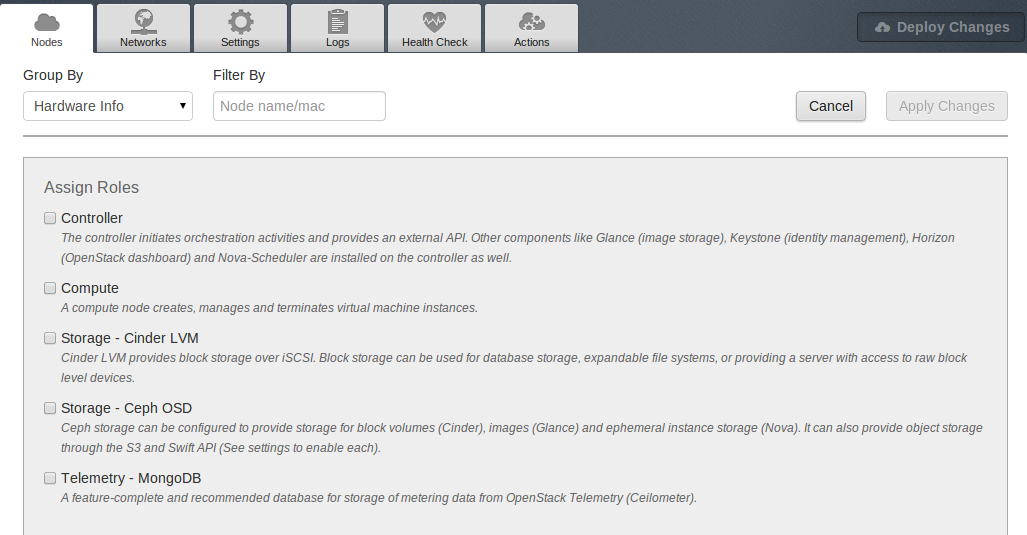
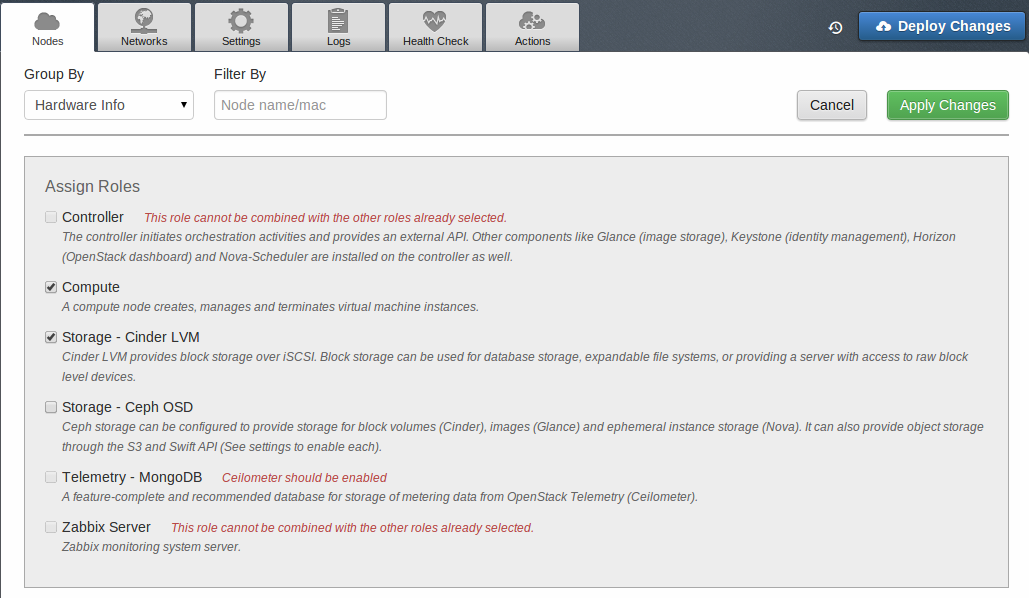
Add nodes text, disk partioning instructions
user-guide/4000-configure-environment.rst -- added "Add nodes" stage to
summary table

user-guide/create-environment/0900-add-nodes.rst -- new file to include the
"Add nodes" stage
user-guide/create-environment/1300-deploy-changes -- broken out into
separate file and moved after disk partitioning

user-guide/create-environment/1000-assign-roles.rst -- added instructions

New image for add-nodes screen
Replaced image for assign-roles screen, disk-partitioning

The new screen shot for assign-roles includes Zabbix; discussion will be
added in a separate Zabbix commit

Closes-Bug: 1352499

Changed region(s): [[0.0312, 0.2991, 0.9659, 0.957], [0.0, 0.0, 1.0, 0.2692], [0.0, 0.957, 0.0312, 0.9869]]

diff --git a/pages/user-guide/config-environment/1000-assign-roles.rst b/pages/user-guide/config-environment/1000-assign-roles.rst
@@ -4,19 +4,45 @@
 Assign a role or roles to each node server
 ------------------------------------------
 
+The first screen that is displayed has a list of roles at the top
+and a list of unallocated nodes at the bottom.
+
+* A **node** is a physical or virtual server
+  that is provisioned to run a specific set of OpenStack services.
+
+* A **role** is a functional set of services
+  that Fuel installs as a whole on a node,
+  usually in its own disk partition.
+
+
 
 .. image:: /_images/user_screen_shots/assign-roles1.png
-   :width: 50%
+   :width: 80%
 
 
 .. image:: /_images/user_screen_shots/assign-roles2.png
-   :width: 50%
+   :width: 80%
 
 
-Select the role or roles you want to assign,
-then click on the appropriate node(s)
-in the "Unallocated Nodes" list,
-then click on the "Apply Changes" button.
+To assign roles to the nodes:
+
+- Select the role or roles you want to assign
+- Click on the appropriate node(s) in the "Unallocated Nodes" list
+- Click on the "Apply Changes" button.
+- Proceed to do this until all roles have been assigned to all nodes.
+
+In this example,
+both the "Compute" and "Storage - Cinder LVM" roles
+are being assigned to this node.
+
+As you make your selections,
+Fuel displays information about combinations
+that are not allowed
+and other configurations that are required.
+For example, in this sample screen,
+it tells you that the Controller role
+cannot be combined with the Compute and Cinder LVM roles
+that you have selected.
 
 If you want to modify the roles assigned to a node:
 
@@ -34,6 +60,16 @@ If you want to modify the roles assigned to a node:
   and leave the "Compute" role selected);
   click the "Apply Changes" button.
 
+When you click the "Apply Changes" button,
+Fuel displays the configuration you have chosen:
+
+
+.. image:: /_images/user_screen_shots/assign-role-confirm.png
+   :width: 80%
+
+To rename the nodes, click on the "Unnamed nodes" string
+for each node and then type in the name you want to use.
+
 For more information, see:
 
 - :ref:`nodes-roles-arch` describes the Controller,
@@ -42,4 +78,6 @@ For more information, see:
   ramifications of the different Storage roles.
 - :ref:`nodes-roles-plan` includes guidelines about setting up nodes.
 - :ref:`mongodb-term` for information about MongoDB.
+
+
 

diff --git a/pages/user-guide/config-environment/1200-customize-partitions.rst b/pages/user-guide/config-environment/1200-customize-partitions.rst
@@ -4,15 +4,40 @@
 Disk partitioning
 -----------------
 
-.. image:: /_images/user_screen_shots/partition-disks.png
-   :width: 80%
-
-To access this screen,
-select a node or nodes and click the "Configure Disks" button.
+Fuel allocates some reasonable amount of disk space
+for each role that is assigned to a node.
+To modify this allocation,
+select the node(s) you want to modify
+and click on the "Configure Disks" button.
 You can also access this screen
 by clicking the gear wheel to the right of the node listing;
 in the detailed information window that is displayed,
 click the "Configure Disks" button.
+
+This displays a screen with a bar for each disk;
+color-coded sections represent the disk partitions
+that have been assigned.
+
+To modify the disk allocation,
+click on the bar for a disk.
+This example is for a node that runs
+both a Compute node and a Storage - Cinder LVM role;
+clicking on the center bar gives a display
+similar to the following:
+
+.. image:: /_images/user_screen_shots/partition-disks.png
+   :width: 80%
+
+To change the disk allocation for a specific role,
+just type in the amount of space (in MB) you want to allocate.
+You can use round numbers;
+Fuel adjusts this number to satisfy block size boundary requirements and such.
+The display adjusts to show the new allocation;
+click on the "Apply" button in the lower right of the screen
+to save the modifications
+and return to the Node List.
+Click on the "Back to Node List" button in the lower left of the screen
+if you do not want to change the disk allocation.
 
 Note the following:
 
@@ -22,4 +47,6 @@ Note the following:
   and identical roles,
   you can partition all their disks at the same time
   by selecting them all and then clicking the "Configure Disks" button.
+- If the node's roles are modified,
+  the disk configuration is reset to default values.
 

diff --git a/pages/user-guide/4000-configure-environment.rst b/pages/user-guide/4000-configure-environment.rst
@@ -16,6 +16,9 @@ that you use to finish configuring your environment.
 +----------------------------+-------------------------------------------+
 | Step Description           | Additional Information                    |
 +============================+===========================================+
+| Add nodes to your          | See :ref:`add-nodes-ug`                   |
+| environment                |                                           |
++----------------------------+-------------------------------------------+
 | Assign a role or roles to  | See :ref:`assign-roles-ug`                |
 | each node server.          |                                           |
 +----------------------------+-------------------------------------------+
@@ -60,6 +63,7 @@ or :ref:`reset the environment<Reset_Environment>`.
 
   PageBreak
 
+.. include:: /pages/user-guide/config-environment/0900-add-nodes.rst
 .. include:: /pages/user-guide/config-environment/1000-assign-roles.rst
 .. include:: /pages/user-guide/config-environment/1200-customize-partitions.rst
 .. include:: /pages/user-guide/config-environment/1400-network-settings.rst

diff --git a/pages/user-guide/5000-deploy-environment.rst b/pages/user-guide/5000-deploy-environment.rst
@@ -12,6 +12,21 @@ When you have made all the configuration changes you want to make,
 click the "Deploy Changes" button
 to deploy the environment you have defined.
 
+When you are satisfied with your configuration,
+click on the "Deploy Changes" button.
+The following screen is displayed
+to summarize the configuration modifications you have made:
+
+.. image:: /_images/user_screen_shots/assign-role-confirm2.png
+   :width: 50%
+
+This is your last chance to change the configuration;
+check it carefully and,
+if this is not the configuration you want to deploy, click "Cancel".
+If this is the configuration you want,
+click "Deploy";
+after this, you cannot modify the configuration without starting over.
+
 It can take fifteen minutes to an hour to deploy Mirantis OpenStack,
 depending on the options chosen;
 deployment times out at two hours.

diff --git a/pages/user-guide/config-environment/0900-add-nodes.rst b/pages/user-guide/config-environment/0900-add-nodes.rst
@@ -1,0 +1,15 @@
+
+.. _add-nodes-ug:
+
+Add nodes to the environment
+----------------------------
+
+The initial screen shows the total number of nodes
+that have been discovered in your environment
+and the number of nodes that are unallocated.
+Click on the "Add nodes" button to add nodes
+to your environment:
+
+.. image:: /_images/user_screen_shots/add-nodes1.png
+   :width: 80%
+
